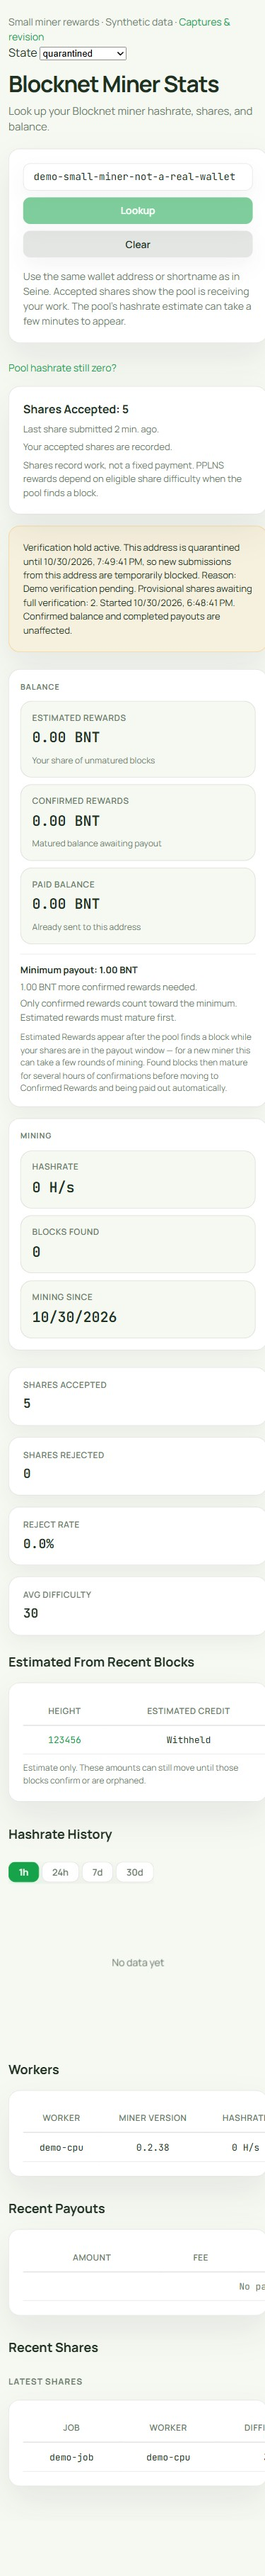
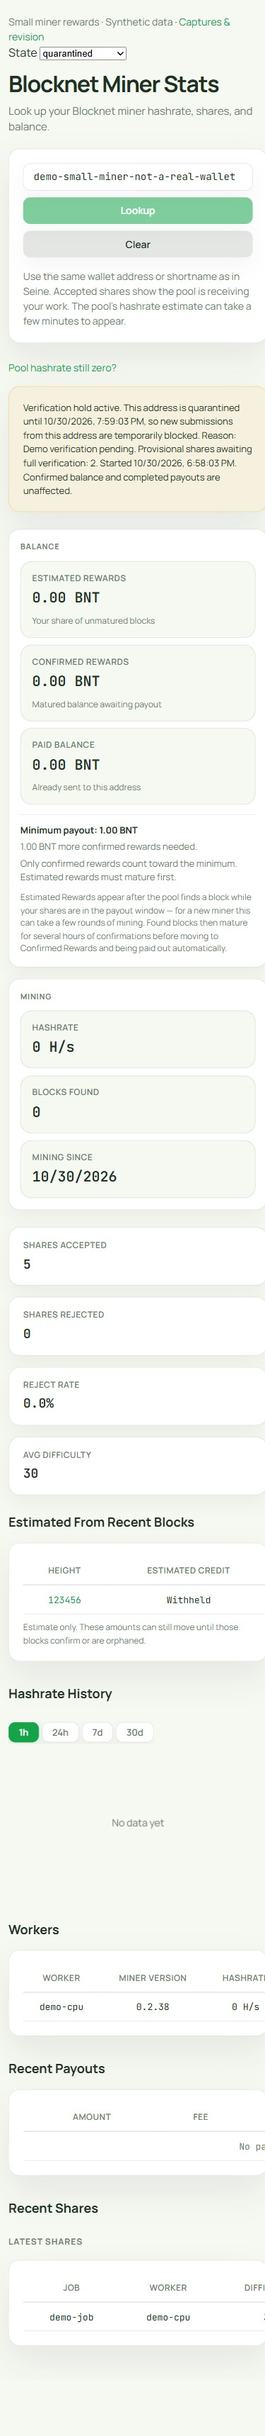
Remove the redundant miner work status panel

diff --git a/frontend/showcases/small-rewards/captures.html b/frontend/showcases/small-rewards/captures.html
@@ -1,1 +1,1 @@
-<!doctype html><html lang="en"><head><meta charset="utf-8"><meta name="viewport" content="width=device-width,initial-scale=1"><title>Small miner rewards showcase</title><style>body{font:16px system-ui;background:#f6f8f2;color:#173b32;margin:24px auto;max-width:1120px;padding:0 20px}a{color:#087e47}nav{display:flex;flex-wrap:wrap;gap:12px}figure{margin:24px 0}img{max-width:100%;height:auto;border:1px solid #dce3dc;border-radius:12px}details{margin:20px 0}summary{cursor:pointer;padding:12px;background:white;border:1px solid #dce3dc;border-radius:8px}code{overflow-wrap:anywhere}</style></head><body><h1>Small miner rewards and payout progress</h1><p>Real stats page with synthetic API responses. Small rewards remain visible down to one atomic unit. The configured minimum, exact confirmed shortfall and queued payouts appear beside balances.</p><p>Reviewed 2026-10-30 18:50 EDT. Source base: <code>e4180bcecc2dee1240431e0bbf5f6d8adfde31b3</code>. <a href="source-revision.json">Exact source hashes</a> · <a href="verification.json">Checks</a> · <a href="./?state=below-minimum&amp;lang=en">Interactive showcase</a></p><p>42 desktop (1366px) and mobile (390px) captures. Loading, empty, failed requests, disabled controls, holds, payout thresholds, German formatting, Arabic layout and dark mode.</p><p>Timestamp alignment update: vertically centered with the accepted count on desktop; wraps on mobile.</p><details open><summary>Timestamp alignment: desktop</summary><img src="captures/status-alignment-desktop.jpg" alt="Centered last submission timestamp, desktop"></details><details open><summary>Timestamp alignment: mobile</summary><img src="captures/status-alignment-mobile.jpg" alt="Centered last submission timestamp, mobile"></details><details><summary>below minimum desktop</summary><figure><a href="captures/below-minimum-desktop.jpg"><img src="captures/below-minimum-desktop.jpg" alt="Stats page: below-minimum-desktop" loading="lazy"></a></figure></details><details><summary>below minimum mobile</summary><figure><a href="captures/below-minimum-mobile.jpg"><img src="captures/below-minimum-mobile.jpg" alt="Stats page: below-minimum-mobile" loading="lazy"></a></figure></details><details><summary>almost paid desktop</summary><figure><a href="captures/almost-paid-desktop.jpg"><img src="captures/almost-paid-desktop.jpg" alt="Stats page: almost-paid-desktop" loading="lazy"></a></figure></details><details><summary>almost paid mobile</summary><figure><a href="captures/almost-paid-mobile.jpg"><img src="captures/almost-paid-mobile.jpg" alt="Stats page: almost-paid-mobile" loading="lazy"></a></figure></details><details><summary>minimum met desktop</summary><figure><a href="captures/minimum-met-desktop.jpg"><img src="captures/minimum-met-desktop.jpg" alt="Stats page: minimum-met-desktop" loading="lazy"></a></figure></details><details><summary>minimum met mobile</summary><figure><a href="captures/minimum-met-mobile.jpg"><img src="captures/minimum-met-mobile.jpg" alt="Stats page: minimum-met-mobile" loading="lazy"></a></figure></details><details><summary>queued desktop</summary><figure><a href="captures/queued-desktop.jpg"><img src="captures/queued-desktop.jpg" alt="Stats page: queued-desktop" loading="lazy"></a></figure></details><details><summary>queued mobile</summary><figure><a href="captures/queued-mobile.jpg"><img src="captures/queued-mobile.jpg" alt="Stats page: queued-mobile" loading="lazy"></a></figure></details><details><summary>settings loading desktop</summary><figure><a href="captures/settings-loading-desktop.jpg"><img src="captures/settings-loading-desktop.jpg" alt="Stats page: settings-loading-desktop" loading="lazy"></a></figure></details><details><summary>settings loading mobile</summary><figure><a href="captures/settings-loading-mobile.jpg"><img src="captures/settings-loading-mobile.jpg" alt="Stats page: settings-loading-mobile" loading="lazy"></a></figure></details><details><summary>settings error desktop</summary><figure><a href="captures/settings-error-desktop.jpg"><img src="captures/settings-error-desktop.jpg" alt="Stats page: settings-error-desktop" loading="lazy"></a></figure></details><details><summary>settings error mobile</summary><figure><a href="captures/settings-error-mobile.jpg"><img src="captures/settings-error-mobile.jpg" alt="Stats page: settings-error-mobile" loading="lazy"></a></figure></details><details><summary>custom minimum desktop</summary><figure><a href="captures/custom-minimum-desktop.jpg"><img src="captures/custom-minimum-desktop.jpg" alt="Stats page: custom-minimum-desktop" loading="lazy"></a></figure></details><details><summary>custom minimum mobile</summary><figure><a href="captures/custom-minimum-mobile.jpg"><img src="captures/custom-minimum-mobile.jpg" alt="Stats page: custom-minimum-mobile" loading="lazy"></a></figure></details><details><summary>zero minimum desktop</summary><figure><a href="captures/zero-minimum-desktop.jpg"><img src="captures/zero-minimum-desktop.jpg" alt="Stats page: zero-minimum-desktop" loading="lazy"></a></figure></details><details><summary>zero minimum mobile</summary><figure><a href="captures/zero-minimum-mobile.jpg"><img src="captures/zero-minimum-mobile.jpg" alt="Stats page: zero-minimum-mobile" loading="lazy"></a></figure></details><details><summary>small desktop</summary><figure><a href="captures/small-desktop.jpg"><img src="captures/small-desktop.jpg" alt="Stats page: small-desktop" loading="lazy"></a></figure></details><details><summary>small mobile</summary><figure><a href="captures/small-mobile.jpg"><img src="captures/small-mobile.jpg" alt="Stats page: small-mobile" loading="lazy"></a></figure></details><details><summary>one atom desktop</summary><figure><a href="captures/one-atom-desktop.jpg"><img src="captures/one-atom-desktop.jpg" alt="Stats page: one-atom-desktop" loading="lazy"></a></figure></details><details><summary>one atom mobile</summary><figure><a href="captures/one-atom-mobile.jpg"><img src="captures/one-atom-mobile.jpg" alt="Stats page: one-atom-mobile" loading="lazy"></a></figure></details><details><summary>zero desktop</summary><figure><a href="captures/zero-desktop.jpg"><img src="captures/zero-desktop.jpg" alt="Stats page: zero-desktop" loading="lazy"></a></figure></details><details><summary>zero mobile</summary><figure><a href="captures/zero-mobile.jpg"><img src="captures/zero-mobile.jpg" alt="Stats page: zero-mobile" loading="lazy"></a></figure></details><details><summary>no shares desktop</summary><figure><a href="captures/no-shares-desktop.jpg"><img src="captures/no-shares-desktop.jpg" alt="Stats page: no-shares-desktop" loading="lazy"></a></figure></details><details><summary>no shares mobile</summary><figure><a href="captures/no-shares-mobile.jpg"><img src="captures/no-shares-mobile.jpg" alt="Stats page: no-shares-mobile" loading="lazy"></a></figure></details><details><summary>old shares desktop</summary><figure><a href="captures/old-shares-desktop.jpg"><img src="captures/old-shares-desktop.jpg" alt="Stats page: old-shares-desktop" loading="lazy"></a></figure></details><details><summary>old shares mobile</summary><figure><a href="captures/old-shares-mobile.jpg"><img src="captures/old-shares-mobile.jpg" alt="Stats page: old-shares-mobile" loading="lazy"></a></figure></details><details><summary>hold desktop</summary><figure><a href="captures/hold-desktop.jpg"><img src="captures/hold-desktop.jpg" alt="Stats page: hold-desktop" loading="lazy"></a></figure></details><details><summary>hold mobile</summary><figure><a href="captures/hold-mobile.jpg"><img src="captures/hold-mobile.jpg" alt="Stats page: hold-mobile" loading="lazy"></a></figure></details><details><summary>quarantined desktop</summary><figure><a href="captures/quarantined-desktop.jpg"><img src="captures/quarantined-desktop.jpg" alt="Stats page: quarantined-desktop" loading="lazy"></a></figure></details><details><summary>quarantined mobile</summary><figure><a href="captures/quarantined-mobile.jpg"><img src="captures/quarantined-mobile.jpg" alt="Stats page: quarantined-mobile" loading="lazy"></a></figure></details><details><summary>loading desktop</summary><figure><a href="captures/loading-desktop.jpg"><img src="captures/loading-desktop.jpg" alt="Stats page: loading-desktop" loading="lazy"></a></figure></details><details><summary>loading mobile</summary><figure><a href="captures/loading-mobile.jpg"><img src="captures/loading-mobile.jpg" alt="Stats page: loading-mobile" loading="lazy"></a></figure></details><details><summary>balance error desktop</summary><figure><a href="captures/balance-error-desktop.jpg"><img src="captures/balance-error-desktop.jpg" alt="Stats page: balance-error-desktop" loading="lazy"></a></figure></details><details><summary>balance error mobile</summary><figure><a href="captures/balance-error-mobile.jpg"><img src="captures/balance-error-mobile.jpg" alt="Stats page: balance-error-mobile" loading="lazy"></a></figure></details><details><summary>error desktop</summary><figure><a href="captures/error-desktop.jpg"><img src="captures/error-desktop.jpg" alt="Stats page: error-desktop" loading="lazy"></a></figure></details><details><summary>error mobile</summary><figure><a href="captures/error-mobile.jpg"><img src="captures/error-mobile.jpg" alt="Stats page: error-mobile" loading="lazy"></a></figure></details><details><summary>empty desktop</summary><figure><a href="captures/empty-desktop.jpg"><img src="captures/empty-desktop.jpg" alt="Stats page: empty-desktop" loading="lazy"></a></figure></details><details><summary>empty mobile</summary><figure><a href="captures/empty-mobile.jpg"><img src="captures/empty-mobile.jpg" alt="Stats page: empty-mobile" loading="lazy"></a></figure></details><details><summary>small de desktop</summary><figure><a href="captures/small-de-desktop.jpg"><img src="captures/small-de-desktop.jpg" alt="Stats page: small-de-desktop" loading="lazy"></a></figure></details><details><summary>small ar mobile</summary><figure><a href="captures/small-ar-mobile.jpg"><img src="captures/small-ar-mobile.jpg" alt="Stats page: small-ar-mobile" loading="lazy"></a></figure></details><details><summary>small dark desktop</summary><figure><a href="captures/small-dark-desktop.jpg"><img src="captures/small-dark-desktop.jpg" alt="Stats page: small-dark-desktop" loading="lazy"></a></figure></details><details><summary>small dark mobile</summary><figure><a href="captures/small-dark-mobile.jpg"><img src="captures/small-dark-mobile.jpg" alt="Stats page: small-dark-mobile" loading="lazy"></a></figure></details></body></html>
+<!doctype html><html lang="en"><head><meta charset="utf-8"><meta name="viewport" content="width=device-width,initial-scale=1"><title>Small miner rewards showcase</title><style>body{font:16px system-ui;background:#f6f8f2;color:#173b32;margin:24px auto;max-width:1120px;padding:0 20px}a{color:#087e47}nav{display:flex;flex-wrap:wrap;gap:12px}figure{margin:24px 0}img{max-width:100%;height:auto;border:1px solid #dce3dc;border-radius:12px}details{margin:20px 0}summary{cursor:pointer;padding:12px;background:white;border:1px solid #dce3dc;border-radius:8px}code{overflow-wrap:anywhere}</style></head><body><h1>Small rewards and payout progress</h1><p>Real My Stats page with synthetic responses. Precise balances and payout progress; accepted shares remain in the regular mining statistics.</p><p><a href="source-revision.json">Source revision</a> · <a href="./?state=small&amp;lang=en">Interactive showcase</a></p><details open><summary>small desktop</summary><img src="captures/small-desktop.jpg" alt="Stats page: small-desktop" loading="lazy"></details><details><summary>small mobile</summary><img src="captures/small-mobile.jpg" alt="Stats page: small-mobile" loading="lazy"></details><details><summary>balance error desktop</summary><img src="captures/balance-error-desktop.jpg" alt="Stats page: balance-error-desktop" loading="lazy"></details><details><summary>balance error mobile</summary><img src="captures/balance-error-mobile.jpg" alt="Stats page: balance-error-mobile" loading="lazy"></details><details><summary>hold desktop</summary><img src="captures/hold-desktop.jpg" alt="Stats page: hold-desktop" loading="lazy"></details><details><summary>hold mobile</summary><img src="captures/hold-mobile.jpg" alt="Stats page: hold-mobile" loading="lazy"></details><details><summary>quarantined desktop</summary><img src="captures/quarantined-desktop.jpg" alt="Stats page: quarantined-desktop" loading="lazy"></details><details><summary>quarantined mobile</summary><img src="captures/quarantined-mobile.jpg" alt="Stats page: quarantined-mobile" loading="lazy"></details><details><summary>loading desktop</summary><img src="captures/loading-desktop.jpg" alt="Stats page: loading-desktop" loading="lazy"></details><details><summary>loading mobile</summary><img src="captures/loading-mobile.jpg" alt="Stats page: loading-mobile" loading="lazy"></details><details><summary>error desktop</summary><img src="captures/error-desktop.jpg" alt="Stats page: error-desktop" loading="lazy"></details><details><summary>error mobile</summary><img src="captures/error-mobile.jpg" alt="Stats page: error-mobile" loading="lazy"></details><details><summary>empty desktop</summary><img src="captures/empty-desktop.jpg" alt="Stats page: empty-desktop" loading="lazy"></details><details><summary>empty mobile</summary><img src="captures/empty-mobile.jpg" alt="Stats page: empty-mobile" loading="lazy"></details><details><summary>below minimum desktop</summary><img src="captures/below-minimum-desktop.jpg" alt="Stats page: below-minimum-desktop" loading="lazy"></details><details><summary>below minimum mobile</summary><img src="captures/below-minimum-mobile.jpg" alt="Stats page: below-minimum-mobile" loading="lazy"></details><details><summary>almost paid desktop</summary><img src="captures/almost-paid-desktop.jpg" alt="Stats page: almost-paid-desktop" loading="lazy"></details><details><summary>almost paid mobile</summary><img src="captures/almost-paid-mobile.jpg" alt="Stats page: almost-paid-mobile" loading="lazy"></details><details><summary>minimum met desktop</summary><img src="captures/minimum-met-desktop.jpg" alt="Stats page: minimum-met-desktop" loading="lazy"></details><details><summary>minimum met mobile</summary><img src="captures/minimum-met-mobile.jpg" alt="Stats page: minimum-met-mobile" loading="lazy"></details><details><summary>queued desktop</summary><img src="captures/queued-desktop.jpg" alt="Stats page: queued-desktop" loading="lazy"></details><details><summary>queued mobile</summary><img src="captures/queued-mobile.jpg" alt="Stats page: queued-mobile" loading="lazy"></details><details><summary>settings loading desktop</summary><img src="captures/settings-loading-desktop.jpg" alt="Stats page: settings-loading-desktop" loading="lazy"></details><details><summary>settings loading mobile</summary><img src="captures/settings-loading-mobile.jpg" alt="Stats page: settings-loading-mobile" loading="lazy"></details><details><summary>settings error desktop</summary><img src="captures/settings-error-desktop.jpg" alt="Stats page: settings-error-desktop" loading="lazy"></details><details><summary>settings error mobile</summary><img src="captures/settings-error-mobile.jpg" alt="Stats page: settings-error-mobile" loading="lazy"></details><details><summary>custom minimum desktop</summary><img src="captures/custom-minimum-desktop.jpg" alt="Stats page: custom-minimum-desktop" loading="lazy"></details><details><summary>custom minimum mobile</summary><img src="captures/custom-minimum-mobile.jpg" alt="Stats page: custom-minimum-mobile" loading="lazy"></details><details><summary>zero minimum desktop</summary><img src="captures/zero-minimum-desktop.jpg" alt="Stats page: zero-minimum-desktop" loading="lazy"></details><details><summary>zero minimum mobile</summary><img src="captures/zero-minimum-mobile.jpg" alt="Stats page: zero-minimum-mobile" loading="lazy"></details></body></html>

diff --git a/frontend/src/pages/StatsPage.tsx b/frontend/src/pages/StatsPage.tsx
@@ -324,10 +324,6 @@ export function StatsPage({ api, liveTick, theme }: StatsPageProps) {
   const minerRejectRate = minerChecked > 0 ? (minerRejected / minerChecked) * 100 : null;
   const recentShares = minerData?.shares ?? [];
   const previewBlocks = livePendingEstimate?.blocks ?? [];
-  const lastSubmission = Math.max(0,
-    ...(minerData?.workers ?? []).map((worker) => toUnixMs(worker.last_share_at) || 0),
-    ...recentShares.map((share) => toUnixMs(share.created_at) || 0),
-  );
   const verificationHold = minerData?.verification_hold ?? null;
   const verificationReason = verificationHold?.reason?.trim() || t('m599');
   const verificationPendingProvisional = verificationHold?.validation_pending_provisional ?? 0;
@@ -409,16 +405,6 @@ export function StatsPage({ api, liveTick, theme }: StatsPageProps) {
                 {minerBalanceData ? t("m489") : t("m490")}
               </div>
             </div>)}
-          {minerData && (
-            <section className="card miner-work-status" aria-label={t('m501')}>
-              <strong>{t('m501')}: {minerAccepted.toLocaleString(locale)}</strong>
-              {lastSubmission > 0 && (
-                <span title={timestampTitle(lastSubmission)}>{t('statsLastSubmission', [timeAgo(lastSubmission)])}</span>
-              )}
-              <p>{t(minerAccepted > 0 ? 'statsWorkRecorded' : 'statsNoShares')}</p>
-              <p>{t('statsRewardsBasis')}</p>
-            </section>
-          )}
           {verificationHold && (<div
               className="card"
               style={{ marginBottom: 24, background: 'rgba(247, 180, 75, 0.12)', borderColor: 'rgba(247, 180, 75, 0.45)' }}

diff --git a/frontend/src/styles.css b/frontend/src/styles.css
@@ -674,18 +674,6 @@ html:lang(zh) .page-header h1 {
   white-space: nowrap;
 }
 
-.miner-work-status {
-  margin-bottom: 16px;
-  display: flex;
-  flex-wrap: wrap;
-  align-items: center;
-  gap: 6px 16px;
-}
-
-.miner-work-status strong { color: var(--text); }
-.miner-work-status span { color: var(--muted); font-size: 13px; }
-.miner-work-status p { flex-basis: 100%; margin: 0; font-size: 13px; color: var(--muted); }
-
 .miner-payout-progress {
   margin-top: 14px;
   padding-top: 12px;

diff --git a/frontend/showcases/small-rewards/README.md b/frontend/showcases/small-rewards/README.md
@@ -1,45 +1,16 @@
-# Small miner rewards
+# Small rewards and payout progress
 
-Start from the repository root with `npm --prefix frontend run showcase:rewards`.
-Open http://localhost:5197/showcases/small-rewards/?state=below-minimum&lang=en.
-The state picker renders the real StatsPage through the real API client with
-synthetic responses; it never contacts the pool. Add `theme=dark` or `lang=de`
-(any supported language) to preview other appearances.
+Run `npm --prefix frontend run showcase:rewards` from the repository root.
+Open http://localhost:5197/showcases/small-rewards/?state=small&lang=en.
 
-The [capture gallery](./captures.html) contains 42 reviewed desktop (1366px) and
-mobile (390px) captures. `source-revision.json` records the base commit and exact
-source hashes. States cover small rewards, one atomic unit, zero rewards, no
-shares, old shares without active workers, verification holds, quarantine,
-loading, failed balance lookup, failed miner lookup and empty lookup. Disabled
-controls, dark mode, German decimal formatting and Arabic RTL are also covered.
+The real StatsPage and API client use synthetic responses. The 30 desktop and
+mobile captures cover small balances, missing data, holds, loading, empty,
+lookup errors, payout thresholds, queued payouts and settings failures.
+The extra accepted-work panel has been removed; regular mining statistics remain.
+The balance component preserves small rewards and shows the configured minimum
+and confirmed-only shortfall. See source-revision.json for exact source hashes
+and which unaffected captures were retained.
 
-Payout progress fetches the pool’s configured minimum and refreshes it every minute.
-The shortfall uses confirmed rewards only, with eight-decimal precision even for
-custom minima above 1 BNT. Queued payouts take precedence; missing settings or
-balances never imply zero or payout eligibility. Captures also cover a one-atomic-unit
-shortfall, threshold reached, queued payouts, settings loading/failure, a custom
-minimum and a zero minimum with no balance.
-
-Amounts below 1 BNT retain up to eight decimals, with unnecessary trailing zeros
-removed (at least two decimals remain). Larger values keep their existing
-formatting. The same formatter serves balance cards, tooltips and credit tables.
-The status uses the API's accepted count and most recent submission timestamp
-from workers or recent shares. A submission can be rejected, so it is deliberately
-not labeled the last accepted share. Recorded work does not assert current payout
-eligibility, an active connection or a guaranteed reward. Verification holds
-appear before balances, and failed balance requests retain the existing unknown
-display instead of showing zero. No accounting or API changes are required.
-
-Validation: 31 frontend tests, production build (including type checks, all 20
-catalogs and static content), and the shared Windows Chrome Playwright MCP.
-Checked small amounts in cards and block rows, clear/relookup behavior, unknown
-balances, holds, no document overflow, and both themes. The only intermittent
-console error was from the shared browser's wallet extension, outside the app.
-
-For a standalone build, run Vite with this config and a dedicated `--outDir`,
-then copy `captures.html`, `source-revision.json` and `captures/` beside the emitted
-`showcases/small-rewards/index.html`. Serve that output directory with
-`python3 -m http.server 5197 --directory <output-directory>`.
-
-Deploy through the normal API-only deployment path when requested. This change
-does not require a Stratum or daemon restart.
+Validation: production build including TypeScript and all 20 catalogs; browser
+review of desktop and mobile success, balance-error and verification holds.
+No horizontal overflow. Payout calculations and API contracts are unchanged.
